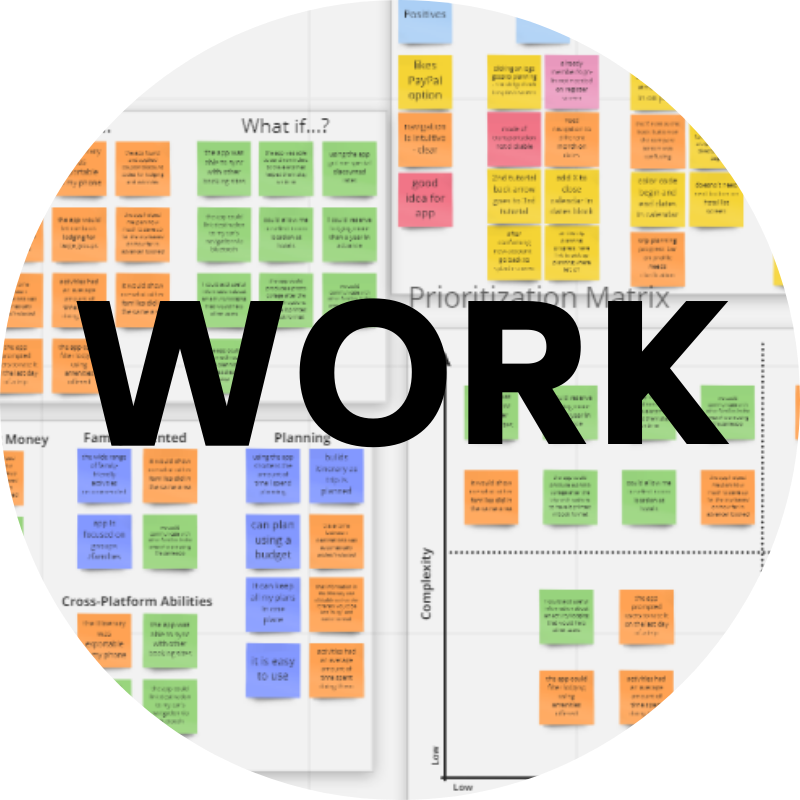
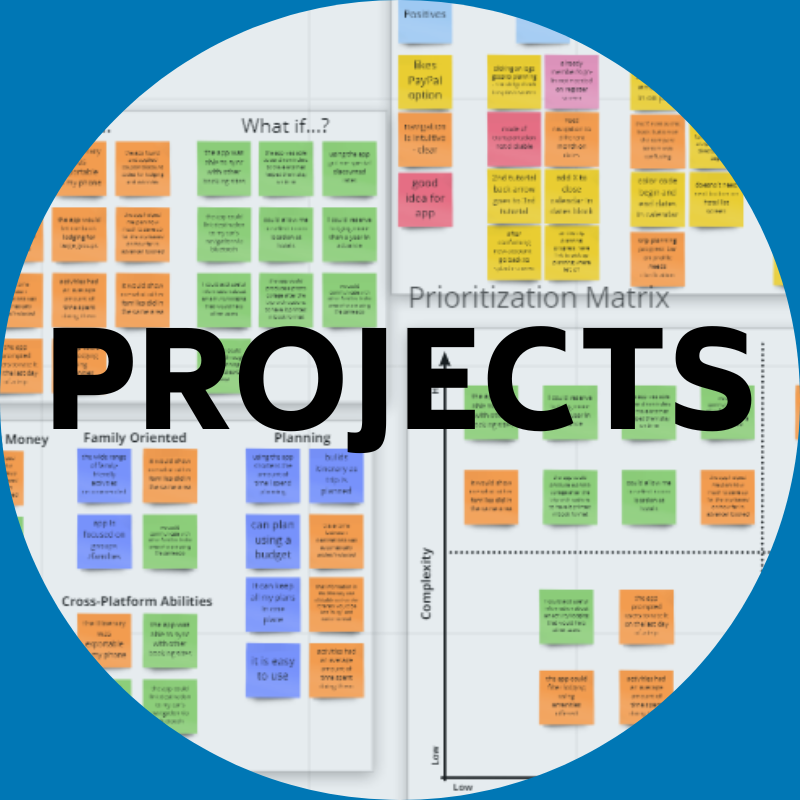
layout changes that have worked

diff --git a/index.html b/index.html
@@ -24,15 +24,15 @@
               </a>
             </li>
             <li>              
-              <a href="#myWork">
-                <img src="images/WORK.png"
+              <a href="#mySkills">
+                <img src="images/RESUME_SKILLS.png"
                 height="100px"
                 width="100px">
               </a>
             </li>
             <li>              
-              <a href="#mySkills">
-                <img src="images/RESUME_SKILLS.png"
+              <a href="#myProjects">
+                <img src="images/WORK.png"
                 height="100px"
                 width="100px">
               </a>
@@ -69,8 +69,20 @@
       </div>               
     </div>
     <!--Main Body-->
-    <!--  My UX Skills section coded using CSS flex -->
+    <div class="AboutMe" id="aboutMe">
+      <h1>About Me</h1>
+      <div class="flexContainer">
+        <img src="images/CMUserPersona_4.png">
+      </div>
+      <div class="resume">
+        <button class="resumeButton">View Resume
+        </button>
+      </div>
+    </div>  
+    
+    <!--  My UX Skills section coded using CSS flex --> 
     <div class="flexContainer" id="mySkills">
+      <h1>Learning</h1>
       <div>
         <img src="images/my_skills.png"
         height="600px"
@@ -83,11 +95,11 @@
       </div>
     </div>
     <!-- My Work Section Constructed using CSS Grid -->
-    <div class="myWork" id="myWork"> 
-      <h1>My UX Work</h1>
+    <div class="projects" id="myProjects"> 
+      <h1>Projects</h1>
       <div class="workGrid">
         <div class="item1">
-          <img src="images/FCC_project_icon1.png"
+          <img src="images/FCC_project_icon.png"
             height="200px"
             width="200px">
         </div>
@@ -95,11 +107,11 @@
           <h4>Group Project: FCC Redesign</h4>
           <p></p>
         </div>
-        <div class="button1">
-          <button>See More</button>
+        <div class="buttonFCC">
+          <button class="button1">See More</button>
         </div>
         <div class="item2">
-          <img src="images/hey_bestie.png"
+          <img src="images/hey_bestie!.png"
           height="200px"
           width="200px">
         </div>
@@ -107,13 +119,13 @@
           <h4>Group Project: hey bestie! App </h4>
           <p></p>
         </div>
-        <div class="button2">
-          <button>See More
+        <div class="buttonHB">
+          <button class="button2">See More
             <a href="https://carleemarie.github.io/UX_UI_HW_20/"></a>
           </button>
         </div>    
         <div class="item3">
-          <img src="images/NPO_project.png"
+          <img src="images/NPO.png"
           height="200px"
           width="200px">
         </div>
@@ -121,20 +133,15 @@
           <h4>Group Project: NPO Redesign</h4>
           <p></p>
         </div>
-        <div class="button3">
-          <button>See More</button>
+        <div class="buttonNPO">
+          <button class="button3">See More</button>
         </div>
         <div class="item4">
           <button>View All Projects</button>
         </div>
       </div>
     </div>
-    <div class="AboutMe" id="aboutMe">
-      <h1>About Me</h1>
-      <div class="flexContainer">
-        <img src="images/CMUserPersona.png">
-      </div>
-    </div>   
+    
     <!--footer--> 
     <footer>
       <ul>

diff --git a/css/style.css b/css/style.css
@@ -5,6 +5,8 @@ body {
     margin: 0;
     font-family:'Noto Sans', 'Lucida Sans', 'Lucida Sans Regular', 'Lucida Grande', 'Lucida Sans Unicode', Geneva, Verdana, sans-serif;
 }
+
+
 .navigation {
     background-color: #0077b5; 
     text-align: center;
@@ -26,51 +28,78 @@ body {
     padding: 25px;
 }
 .heroImg {
-    padding: 100px 15px;
+    padding: 50px 15px;
     background-color: #ebebeb;
+}
+.AboutMe {
+    padding: 25px 150px 25px 150px;
+    background-color: bisque;
+}
+.resume {
+    padding: 70px 0;
+    text-align: center;
+}
+.resumeButton {
+  background-color: #2E655B;
+  border: none;
+  color: white;
+  padding: 15px 32px;
+  text-align: center;
+  text-decoration: none;
+  display: inline-block;
+  font-size: 22px;
 }
 .flexContainer  {
     display: flex;
     flex-direction: column;
     justify-content: flex-start;
 }
+.flexContainer h1 {
+    text-align: center; 
+}
 .flexContainer div {
-    width: 33%;
-    margin: 0 auto;
+    display: flex;
+    justify-content: center;
     padding: 15px;
 }
-.myWork h1 {
+.projects h1 {
     text-align: center;
 }
 /* begin grid */
 .workGrid {
     display: grid;
     grid-template-columns: auto auto auto;
-    background-color: #2196F3;
+    background-color:#0077b5;
     padding: 10px;
     row-gap: 50px;
   }
   .item1 {
     background-color: rgba(255, 255, 255, 0.8);
-    border: 1px solid rgba(0, 0, 0, 0.8);
     padding: 20px;
     font-size: 30px;
     text-align: center;
   }
   .summary1 {
     background-color: rgba(255, 255, 255, 0.8);
-    border: 1px solid rgba(0, 0, 0, 0.8);
     padding: 20px;
     font-size: 30px;
     text-align: center;
   }
+
   .button1 {
-    background-color: rgba(255, 255, 255, 0.8);
-    border: 1px solid rgba(0, 0, 0, 0.8);
-    padding: 20px;
-    font-size: 30px;
+    position: relative;
+    left: 50%;
+    background-color: bisque;
+    border: 3px solid #000000;
+    color: #000000;
+    padding: 15px 32px;
     text-align: center;
+    text-decoration: none;
+    display: inline-block;
+    font-size: 22px;
   }
+
+  
   .item2 {
     background-color: rgba(255, 255, 255, 0.8);
     border: 1px solid rgba(0, 0, 0, 0.8);
